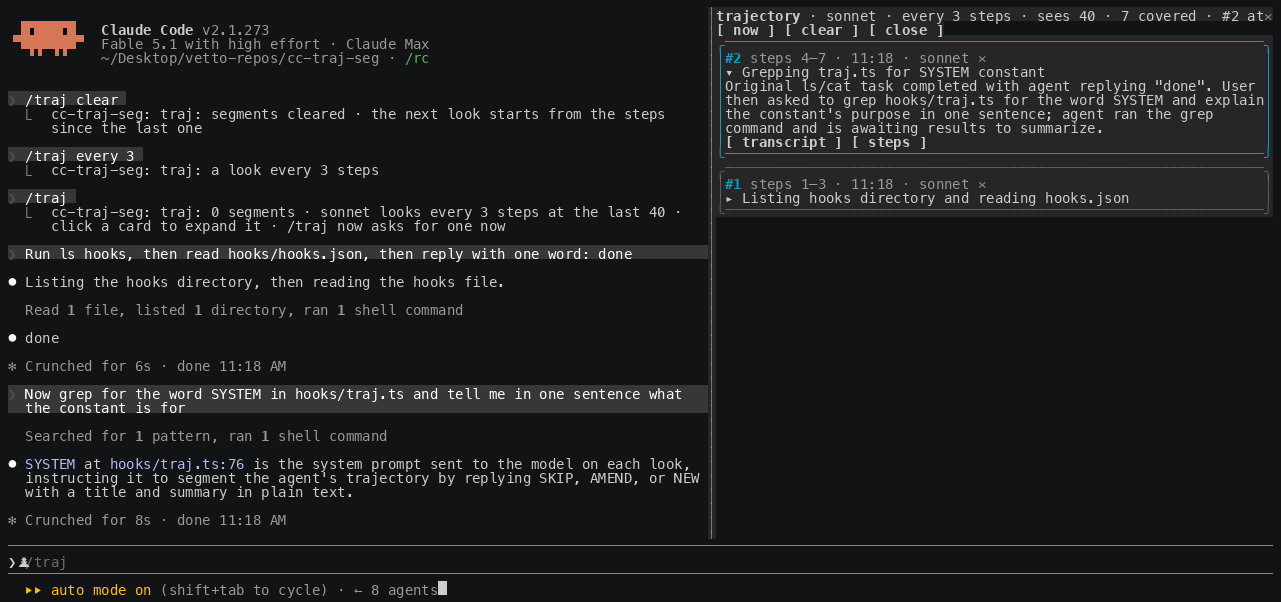
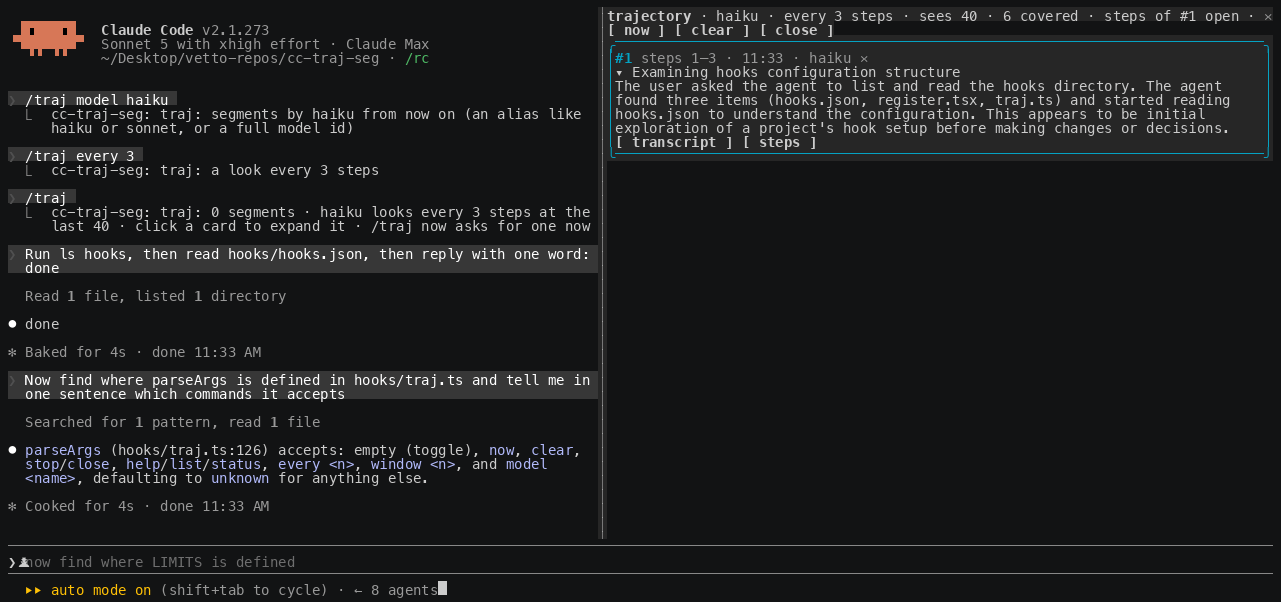
Add why-section, demo gif and screenshots; wire repo URLs
The README now leads with the case for the plugin: you can delegate
intelligence but not understanding, and a cheap running account of a long
autonomous run buys the legibility back. Demo gif and four screenshots are
captured from a real session; the plugin and marketplace manifests point at
the GitHub repo.

Claude-Session: https://claude.ai/code/session_01EoUY2LdndVzAo7xYiNQCdJ

diff --git a/README.md b/README.md
@@ -2,13 +2,37 @@
 
 Trajectory segmentation for long Claude Code sessions: a pane on the right that tells you, in a few cards, what Claude is doing and the path it has taken to get there.
 
-Every N steps (a step is a prompt you typed, an assistant message, or one tool call) a model of your choice reads the segments written so far plus the last 40 steps of the trajectory, and decides one of three things: **SKIP**, the new steps continue the current segment and change nothing worth saying; **AMEND**, they continue it but its title or summary should change; **NEW**, Claude moved to a different action or path. Most looks end in SKIP. That is the point: the pane stays short.
+![The pane beside a session: a segment card expanded to its summary, with buttons to jump to the transcript or open the steps](docs/demo.gif)
 
-![The pane: two segments, the newest expanded to its summary and its transcript and steps buttons](docs/screenshots/expanded.png)
+## Why this exists
 
-Each card is a one-line title, present tense, of what Claude is doing. Click it to expand the paragraph, a `transcript` button that scrolls the conversation to where the segment starts, and a `steps` button that opens the steps it covers in a second pane. `✕` dismisses a card.
+You can delegate intelligence. You cannot delegate understanding.
 
-![The steps pane: the segment's title, summary and every step it covers, opened as a tab beside the trajectory](docs/screenshots/steps.png)
+An agent now runs for tens of minutes and hundreds of tool calls on a single prompt. It reads files, edits them, runs commands, changes direction, recovers from a failed test, and by the time it stops you have a result but no picture of how it got there. The transcript holds every step, yet nobody scrolls back through four hundred lines to reconstruct the plot. So the understanding is simply lost, and you are left trusting an outcome you did not watch being made.
+
+That gap matters more as the models get better, not less. The more capable the agent, the more you hand it, and the more of the actual work happens while you are not looking. Capability you can buy. Legibility you have to build. This plugin spends a little intelligence to buy back the understanding: a small model watches the trajectory and keeps a running, honest account of what the main agent is doing and why, so at any moment you can read the story instead of the log.
+
+It is deliberately cheap to run and worth more than it costs. Paying for a few extra tokens so that a long autonomous run stays explainable is a good trade, and it will look like an obviously good trade as runs get longer. The point of the panel is not to summarise text. It is to make delegation observable.
+
+## How it works
+
+A **step** is one action of the trajectory: a prompt you typed, an assistant message, or a single tool call with the start of what it returned. Every **N steps** (default 10) the plugin runs one look. On each look a model of your choice reads two things: the segments it has already written, and the **last W steps** of the trajectory (default 40), with a marker before the ones that are new since the last look. That overlap of old context and new steps is what lets it judge continuity rather than summarise blindly.
+
+It then answers one of three ways:
+
+- **SKIP** — the new steps continue the current segment and add nothing worth saying. Most looks end here, which is the point: the pane stays short.
+- **AMEND** — the same phase, but its title or summary should change (a result came back, a blocker appeared). The current card is rewritten in place.
+- **NEW** — the agent moved to a different action or path. A new card goes on top.
+
+Each card is a one-line, present-tense title of what Claude is doing. Click the title to expand a short paragraph and two buttons: **transcript** scrolls the conversation to where the segment starts, and **steps** opens the exact steps it covers in a second pane. **✕** dismisses a card.
+
+![A fresh pane: nothing yet, and a note on the cadence](docs/screenshots/pane.png)
+
+![A segment card, collapsed to its title](docs/screenshots/card.png)
+
+![The same card expanded: the summary paragraph and the transcript and steps buttons](docs/screenshots/expanded.png)
+
+![The steps pane: the segment's title, summary and every step it covers, as a tab beside the trajectory](docs/screenshots/steps.png)
 
 Built on Claude Code **function hooks** ("Claude Mods"), in early access: it needs the environment variable the quick start sets, and the API can change between releases.
 
@@ -55,7 +79,13 @@ In the pane: `now`, `clear` and `close` do the same as the commands; a card's ti
 
 Settings persist across sessions. Segments are kept per session, so `claude --resume` shows the session's own.
 
-## How it works
+## Choosing the model, N and the window
+
+- **Model.** `haiku` is the default because a look happens often and each one should be cheap; it is enough to name a phase and spot a change of direction. Switch to `sonnet` for finer, better-written segments on a run you care about, or a full id to pin a version. This is where the "pay a little to understand" trade lives.
+- **N (every).** Smaller means more looks and finer segments, at more calls; larger means coarser and cheaper. Ten is a reasonable middle; drop to three or four while you are watching closely.
+- **Window (sees).** The model reads only the last W steps plus its own earlier segments, so W is how far back it can see raw. Forty covers a few turns of context. Raise it if segments misread something that happened further back, at the cost of a bigger prompt each look.
+
+## Internals
 
 - `hooks/register.tsx` is the hooks module. It hooks `tool.call` and `turn.complete` to count steps and, when a look is due, calls `$.model.complete` with the segments so far and the step window, without making the turn wait. `ui.render` for `{ component: 'Pane' }` draws the cards, and a second pane for one segment's steps. Hooks on `UserMessage` and `AssistantMessage` renders remember each transcript row's id, which is what `$.ui.scroll` needs to bring the row into view; a tool row is addressed by its tool-use id directly.
 - `hooks/traj.ts` is the pure part: the transcript flattened to steps, the window and the prompt, the system prompt, the reply protocol and the argument parser. `tests/traj.test.ts` covers it.
@@ -91,11 +121,12 @@ Type checking needs the early-access types: run `/plugin-types` in a session in 
 
 Two things the loader enforces: a helper that receives `$` must be a top-level function declaration in the module, and the engine's own node (`await next(e)`) cannot sit under a Box with a `width`.
 
-The screenshots were captured from a real session driven through tmux (`docs/capture/cast.py` turns `tmux capture-pane -e` frames into an asciicast that agg renders).
+The screenshots and the gif were captured from a real session driven through tmux (`docs/capture/cast.py` turns `tmux capture-pane -e` frames into an asciicast that agg renders).
 
 ## Limits
 
-- The model only sees the last `window` steps plus its own earlier segments, so a segment can misread something that happened further back. That is a trade for a small, cheap prompt.
+- The model only sees the last `window` steps plus its own earlier segments, so a segment can misread something that happened further back. That is the trade for a small, cheap prompt.
+- Because later looks inherit earlier segments as context, a misdescription can carry forward. Raising the window helps.
 - `transcript` moves the conversation only for a row the terminal has drawn in this session; on a resumed session older rows may not be addressable, and the steps pane is the fallback.
 - Nothing draws in `claude -p`, the desktop app or mobile.
 
